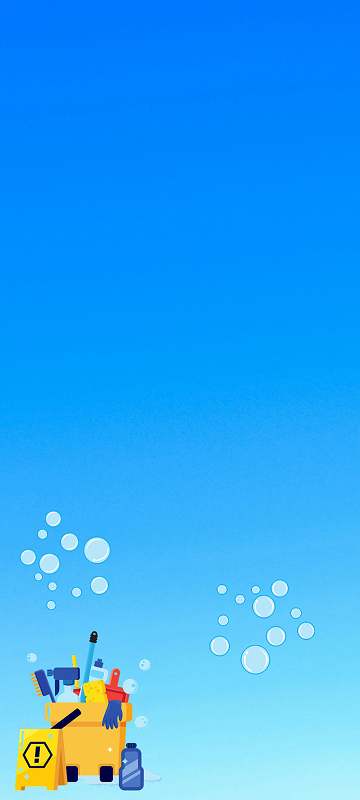
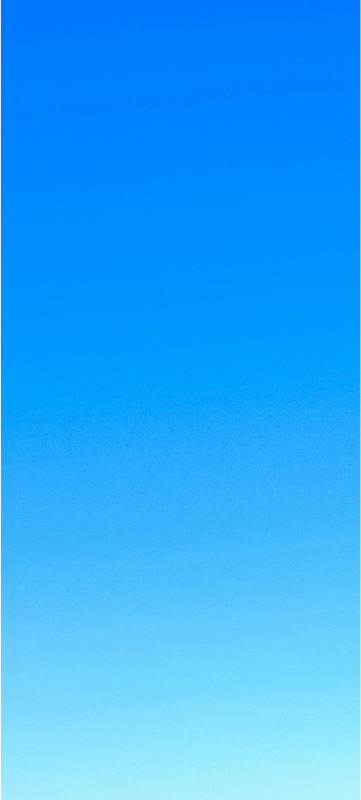
change bg

diff --git a/style.css b/style.css
@@ -5,7 +5,7 @@
 }
 
 body {
-  background: url(./assets/background-azul.jpg) no-repeat top center/cover;
+  background: url(./assets/background-mobile.jpg) no-repeat top center/cover;
   height: 100%;
 }
 
